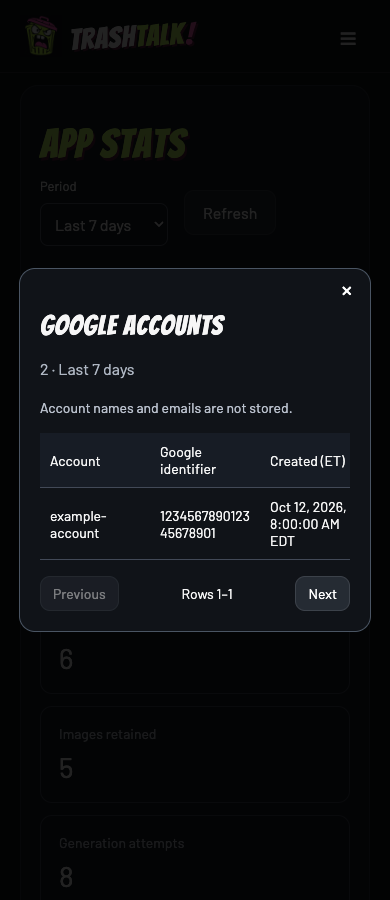
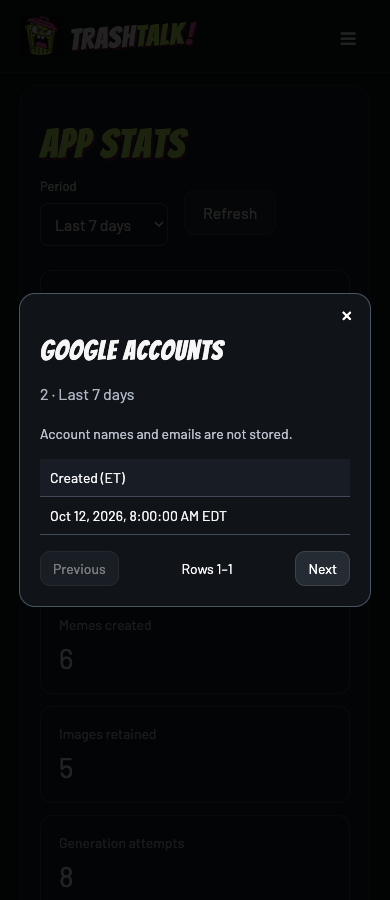
Sort stat details newest first and remove opaque identifier columns

diff --git a/worker/src/stats.ts b/worker/src/stats.ts
@@ -88,7 +88,7 @@ export async function statDetails(
     note = "";
   if (metric === "views") {
     query = `SELECT i.day AS "Date (UTC)",CASE WHEN i.ip='' THEN 'Not recorded' ELSE i.ip END AS "IP address",g.city AS "City",g.state AS "State / region",g.country AS "Country",i.views AS "Page views",i.first_seen AS "First visit (ET)",i.last_seen AS "Last visit (ET)" FROM traffic_ip_daily i LEFT JOIN traffic_ip_locations g ON g.ip=i.ip WHERE i.day>=?
-      UNION ALL SELECT d.day AS "Date (UTC)",'Not recorded' AS "IP address",NULL AS "City",NULL AS "State / region",NULL AS "Country",d.views-COALESCE((SELECT SUM(i.views) FROM traffic_ip_daily i WHERE i.day=d.day),0) AS "Page views",NULL AS "First visit (ET)",NULL AS "Last visit (ET)" FROM traffic_daily d WHERE d.day>=? AND d.views>COALESCE((SELECT SUM(i.views) FROM traffic_ip_daily i WHERE i.day=d.day),0) ORDER BY "Date (UTC)" DESC,"IP address"`;
+      UNION ALL SELECT d.day AS "Date (UTC)",'Not recorded' AS "IP address",NULL AS "City",NULL AS "State / region",NULL AS "Country",d.views-COALESCE((SELECT SUM(i.views) FROM traffic_ip_daily i WHERE i.day=d.day),0) AS "Page views",NULL AS "First visit (ET)",NULL AS "Last visit (ET)" FROM traffic_daily d WHERE d.day>=? AND d.views>COALESCE((SELECT SUM(i.views) FROM traffic_ip_daily i WHERE i.day=d.day),0) ORDER BY "Date (UTC)" DESC,"Last visit (ET)" DESC,"IP address"`;
     values = [firstDay, firstDay];
     columns = [
       "Date (UTC)",
@@ -103,10 +103,9 @@ export async function statDetails(
     note =
       "Page views are grouped by day and IP address. Daily IP records are retained for 90 days; the first location for each IP is cached. Geolocation is approximate; country uses its two-letter code. Older views or visits before IP tracking show “Not recorded.” Home-IP and signed-in operator traffic are excluded. Traffic timestamps begin with this update; earlier times were not recorded.";
   } else if (metric === "visitors") {
-    query = `SELECT v.visitor AS "Browser identifier",COALESCE(GROUP_CONCAT(DISTINCT NULLIF(i.ip,'')),'Not recorded') AS "IP addresses",GROUP_CONCAT(DISTINCT CASE WHEN i.ip IS NOT NULL AND i.ip!='' THEN i.ip||': '||COALESCE(g.city,'Unknown city')||', '||COALESCE(g.state,'Unknown region')||', '||COALESCE(g.country,'Unknown country') END) AS "Locations",MIN(v.first_seen) AS "First seen (ET)",MAX(v.last_seen) AS "Last seen (ET)",COUNT(DISTINCT v.day) AS "Days visited" FROM traffic_visitors v LEFT JOIN traffic_visitor_ips i ON i.day=v.day AND i.visitor=v.visitor LEFT JOIN traffic_ip_locations g ON g.ip=i.ip WHERE v.day>=? GROUP BY v.visitor ORDER BY MAX(v.day) DESC,v.visitor`;
+    query = `SELECT COALESCE(GROUP_CONCAT(DISTINCT NULLIF(i.ip,'')),'Not recorded') AS "IP addresses",GROUP_CONCAT(DISTINCT CASE WHEN i.ip IS NOT NULL AND i.ip!='' THEN i.ip||': '||COALESCE(g.city,'Unknown city')||', '||COALESCE(g.state,'Unknown region')||', '||COALESCE(g.country,'Unknown country') END) AS "Locations",MIN(v.first_seen) AS "First seen (ET)",MAX(v.last_seen) AS "Last seen (ET)",COUNT(DISTINCT v.day) AS "Days visited" FROM traffic_visitors v LEFT JOIN traffic_visitor_ips i ON i.day=v.day AND i.visitor=v.visitor LEFT JOIN traffic_ip_locations g ON g.ip=i.ip WHERE v.day>=? GROUP BY v.visitor ORDER BY MAX(v.day) DESC,MAX(v.last_seen) DESC,v.visitor`;
     values = [firstDay];
     columns = [
-      "Browser identifier",
       "IP addresses",
       "Locations",
       "First seen (ET)",
@@ -114,46 +113,32 @@ export async function statDetails(
       "Days visited",
     ];
     note =
-      "Browser identifiers and their recorded IP addresses cover at most 90 days. A browser can use several IPs, and an IP can be shared by several people. Home-IP and signed-in operator traffic are excluded. Traffic timestamps begin with this update; earlier times were not recorded.";
+      "Browser records and their recorded IP addresses cover at most 90 days. A browser can use several IPs, and an IP can be shared by several people. Home-IP and signed-in operator traffic are excluded. Traffic timestamps begin with this update; earlier times were not recorded.";
   } else if (metric === "accounts") {
-    query = `SELECT id AS "Account",google_sub AS "Google identifier",datetime(created_at,'unixepoch') AS "Created (UTC)" FROM principals WHERE google_sub IS NOT NULL AND created_at>=? ORDER BY created_at DESC,id`;
+    query = `SELECT datetime(created_at,'unixepoch') AS "Created (UTC)" FROM principals WHERE google_sub IS NOT NULL AND created_at>=? ORDER BY created_at DESC,id`;
     values = [since];
-    columns = ["Account", "Google identifier", "Created (UTC)"];
+    columns = ["Created (UTC)"];
     note =
       "The app stores Google identifiers, not names or email addresses. Account creation may precede Google sign-in.";
   } else if (Object.hasOwn(imageFilters, metric)) {
-    query = `SELECT id AS "Image",owner AS "Account",status AS "Status",datetime(created_at,'unixepoch') AS "Created (UTC)",CASE WHEN deleted_at IS NULL THEN 'No' ELSE 'Yes' END AS "Deleted",error AS "Error" FROM jobs WHERE created_at>=? AND (${imageFilters[metric]}) ORDER BY created_at DESC,id`;
+    query = `SELECT json_extract(caption,'$.text') AS "Caption",status AS "Status",datetime(created_at,'unixepoch') AS "Created (UTC)",CASE WHEN deleted_at IS NULL THEN 'No' ELSE 'Yes' END AS "Deleted",error AS "Error" FROM jobs WHERE created_at>=? AND (${imageFilters[metric]}) ORDER BY created_at DESC,id`;
     values = [since];
-    columns = [
-      "Image",
-      "Account",
-      "Status",
-      "Created (UTC)",
-      "Deleted",
-      "Error",
-    ];
+    columns = ["Caption", "Status", "Created (UTC)", "Deleted", "Error"];
   } else if (["packs", "credits", "amount", "review"].includes(metric)) {
-    query = `SELECT session_id AS "Checkout",owner AS "Account",status AS "Status",printf('$%.2f',amount/100.0) AS "Amount",credits AS "Credits",datetime(created_at,'unixepoch') AS "Created (UTC)" FROM purchases WHERE status=? AND created_at>=? ORDER BY created_at DESC,session_id`;
+    query = `SELECT status AS "Status",printf('$%.2f',amount/100.0) AS "Amount",credits AS "Credits",datetime(created_at,'unixepoch') AS "Created (UTC)" FROM purchases WHERE status=? AND created_at>=? ORDER BY created_at DESC,session_id`;
     values = [metric === "review" ? "review" : "paid", since];
-    columns = [
-      "Checkout",
-      "Account",
-      "Status",
-      "Amount",
-      "Credits",
-      "Created (UTC)",
-    ];
+    columns = ["Status", "Amount", "Credits", "Created (UTC)"];
     note =
       "Each row is a purchase. Credits and amount boxes total the corresponding columns. Review purchases are excluded from paid totals; amounts are not net revenue.";
   } else if (["trial", "paid"].includes(metric)) {
-    query = `SELECT l.job_id AS "Image",l.owner AS "Account",l.pool AS "Credit pool",datetime(l.created_at,'unixepoch') AS "Used (UTC)" FROM ledger l WHERE l.kind='captured' AND l.pool=? AND l.created_at>=? ORDER BY l.created_at DESC,l.id DESC`;
+    query = `SELECT json_extract(j.caption,'$.text') AS "Caption",l.pool AS "Credit pool",datetime(l.created_at,'unixepoch') AS "Used (UTC)" FROM ledger l LEFT JOIN jobs j ON j.id=l.job_id WHERE l.kind='captured' AND l.pool=? AND l.created_at>=? ORDER BY l.created_at DESC,l.id DESC`;
     values = [metric, since];
-    columns = ["Image", "Account", "Credit pool", "Used (UTC)"];
+    columns = ["Caption", "Credit pool", "Used (UTC)"];
     note = "Each row is one credit captured for a successful image.";
   } else if (metric === "shares") {
-    query = `SELECT s.job_id AS "Image",j.owner AS "Account",datetime(s.created_at,'unixepoch') AS "Created (UTC)",CASE WHEN j.deleted_at IS NULL THEN 'No' ELSE 'Yes' END AS "Image deleted" FROM shares s JOIN jobs j ON j.id=s.job_id WHERE s.published=1 AND s.created_at>=? ORDER BY s.created_at DESC,s.token`;
+    query = `SELECT json_extract(j.caption,'$.text') AS "Caption",datetime(s.created_at,'unixepoch') AS "Created (UTC)",CASE WHEN j.deleted_at IS NULL THEN 'No' ELSE 'Yes' END AS "Image deleted" FROM shares s JOIN jobs j ON j.id=s.job_id WHERE s.published=1 AND s.created_at>=? ORDER BY s.created_at DESC,s.token`;
     values = [since];
-    columns = ["Image", "Account", "Created (UTC)", "Image deleted"];
+    columns = ["Caption", "Created (UTC)", "Image deleted"];
     note =
       "Published share records use their creation date and include subsequently deleted images.";
   } else return null;
@@ -161,6 +146,19 @@ export async function statDetails(
     await sql(env, query + " LIMIT 51 OFFSET ?", ...values, offset).all()
   ).results;
   const more = rows.length > 50;
+  const timeColumns = [
+    "Last visit (ET)",
+    "Last seen (ET)",
+    "Created (UTC)",
+    "Used (UTC)",
+    "First visit (ET)",
+    "First seen (ET)",
+    "Date (UTC)",
+  ];
+  columns = [
+    ...timeColumns.filter((col) => columns.includes(col)),
+    ...columns.filter((col) => !timeColumns.includes(col)),
+  ];
   return {
     columns: columns.map((col) =>
       col === "Date (UTC)" ? "Day (UTC)" : col.replace("(UTC)", "(ET)"),

diff --git a/tests/stats.test.ts b/tests/stats.test.ts
@@ -120,8 +120,8 @@ it("details match summary counts and paginate without duplicate accounts", async
   const { env, db } = testEnv();
   for (let i = 0; i < 52; i++)
     db.prepare(
-      "INSERT INTO principals(id,google_sub,created_at) VALUES(?,?,unixepoch())",
-    ).run("u" + i, "g" + i);
+      "INSERT INTO principals(id,google_sub,created_at) VALUES(?,?,unixepoch()-?)",
+    ).run("u" + i, "g" + i, i);
   db.exec(`INSERT INTO jobs(id,owner,idempotency,input_hash,input,status,created_at,updated_at,deleted_at) VALUES
  ('complete','u0','a','h','{}','complete',unixepoch(),unixepoch(),NULL),
  ('deleted','u0','b','h','{}','complete',unixepoch(),unixepoch(),unixepoch()),
@@ -156,7 +156,9 @@ it("details match summary counts and paginate without duplicate accounts", async
   expect(second?.rows).toHaveLength(2);
   expect(second?.nextOffset).toBeNull();
   expect(
-    new Set([...first!.rows, ...second!.rows].map((r: any) => r.Account)).size,
+    new Set(
+      [...first!.rows, ...second!.rows].map((r: any) => r["Created (ET)"]),
+    ).size,
   ).toBe(52);
   expect((await statDetails(env, "credits", 30, 0))?.rows[0].Credits).toBe(
     s.purchases.credits,
@@ -326,4 +328,60 @@ it("formats record timestamps in Eastern Time across daylight saving changes", a
   expect(visitors?.rows[0]["First seen (ET)"]).toBe(
     formatEastern(1782921906 * 1000),
   );
+});
+
+it("sorts traffic by latest timestamp within a day and omits internal identifiers from all details", async () => {
+  const { env, db } = testEnv();
+  db.exec(`INSERT INTO traffic_daily VALUES('2026-07-01',2);
+ INSERT INTO traffic_ip_daily(day,ip,views,first_seen,last_seen) VALUES('2026-07-01','192.0.2.1',1,1782921906,1782921906),('2026-07-01','192.0.2.2',1,1782921906,1782925506);
+ INSERT INTO traffic_visitors(day,visitor,first_seen,last_seen) VALUES('2026-07-01','aaaa',1782921906,1782921906),('2026-07-01','zzzz',1782921906,1782925506);
+ INSERT INTO traffic_visitor_ips VALUES('2026-07-01','aaaa','192.0.2.1'),('2026-07-01','zzzz','192.0.2.2');`);
+  expect((await statDetails(env, "views", 0, 0))?.rows[0]["IP address"]).toBe(
+    "192.0.2.2",
+  );
+  expect(
+    (await statDetails(env, "visitors", 0, 0))?.rows[0]["IP addresses"],
+  ).toBe("192.0.2.2");
+  for (const metric of [
+    "views",
+    "visitors",
+    "accounts",
+    "completed",
+    "retained",
+    "attempts",
+    "failed",
+    "active",
+    "packs",
+    "credits",
+    "amount",
+    "review",
+    "trial",
+    "paid",
+    "shares",
+  ]) {
+    const details = await statDetails(env, metric, 0, 0);
+    expect(details?.columns[0], metric).toMatch(
+      /^(Last visit|Last seen|Created|Used) \(ET\)$/,
+    );
+    const firstNonDate = details!.columns.findIndex(
+      (col) => !col.endsWith("(ET)") && col !== "Day (UTC)",
+    );
+    if (firstNonDate >= 0)
+      expect(
+        details!.columns
+          .slice(firstNonDate)
+          .every((col) => !col.endsWith("(ET)") && col !== "Day (UTC)"),
+      ).toBe(true);
+    for (const forbidden of [
+      "Account",
+      "Google identifier",
+      "Browser identifier",
+      "Image",
+      "Checkout",
+    ]) {
+      expect(details?.columns).not.toContain(forbidden);
+      for (const row of details!.rows)
+        expect(row).not.toHaveProperty(forbidden);
+    }
+  }
 });

diff --git a/scripts/check-stats.ts b/scripts/check-stats.ts
@@ -52,12 +52,12 @@ for (const width of [390, 1440]) {
     const offset = Number(u.searchParams.get("offset") || 0);
     return r.fulfill({
       json: {
-        columns: ["Account", "Google identifier", "Created (ET)"],
+        columns: ["Created (ET)"],
         rows: [
           {
-            Account: offset ? "next-account" : "example-account",
-            "Google identifier": "123456789012345678901",
-            "Created (ET)": "Oct 12, 2026, 8:00:00 AM EDT",
+            "Created (ET)": offset
+              ? "Oct 11, 2026, 8:00:00 AM EDT"
+              : "Oct 12, 2026, 8:00:00 AM EDT",
           },
         ],
         note: "Account names and emails are not stored.",
@@ -81,14 +81,20 @@ for (const width of [390, 1440]) {
     else await cards.nth(i).click();
     const dialog = page.getByRole("dialog");
     await dialog.waitFor();
-    await dialog.getByText("example-account", { exact: true }).waitFor();
+    await dialog
+      .getByText("Oct 12, 2026, 8:00:00 AM EDT", { exact: true })
+      .waitFor();
     if (i === 2) {
       await dialog.getByRole("button", { name: "Next", exact: true }).click();
-      await dialog.getByText("next-account", { exact: true }).waitFor();
+      await dialog
+        .getByText("Oct 11, 2026, 8:00:00 AM EDT", { exact: true })
+        .waitFor();
       await dialog
         .getByRole("button", { name: "Previous", exact: true })
         .click();
-      await dialog.getByText("example-account", { exact: true }).waitFor();
+      await dialog
+        .getByText("Oct 12, 2026, 8:00:00 AM EDT", { exact: true })
+        .waitFor();
       await page.screenshot({ path: `reports/stats-modal-${width}.png` });
       await page.keyboard.press("Escape");
     } else

diff --git a/README.md b/README.md
@@ -88,7 +88,7 @@ Traffic tracking began with this release. Public homepage and published meme HTM
 
 Operator traffic is excluded before tracking: requests matching the comma-separated `STATS_EXCLUDED_IPS` setting, or a valid session for `ADMIN_GOOGLE_SUB`, do not increment views or browsers. IP addresses are compared during requests before recording; excluded visits are not saved. The initial four home/testing views were archived outside reported totals in migration 0010 after the operator confirmed their source. This exclusion affects web traffic; account, image, credit, and purchase records retain their actual totals. Update the setting if the home IP changes (signed-in operator visits remain excluded).
 
-Every stats card opens a keyboard-accessible detail modal for the selected period. Private `/api/admin/stats/:metric` routes enforce the same operator Google-account check and return at most 50 records per page. Details list Google-account identifiers, image jobs/status/deletion/errors, purchase records, captured-credit ledger entries, published-share records, daily page totals, and distinct anonymous browser hashes. The app does not have stored names/emails or individual visit logs. Detail queries use the same filters as their summary totals. Mobile tap, all 15 cards, pagination, Escape/Close, and focus restoration are exercised by `scripts/check-stats.ts`; layout tests mock API data, while SQLite tests verify real queries and authorization.
+Every stats card opens a keyboard-accessible detail modal for the selected period. Private `/api/admin/stats/:metric` routes enforce the same operator Google-account check and return at most 50 records per page. Details list account creation times, meme captions/status/deletion/errors, purchase records, captured-credit entries, published-share records, daily page totals, and anonymous browser activity. Internal identifiers are omitted. The app does not have stored names/emails or individual visit logs. Detail queries use the same filters as their summary totals. Mobile tap, all 15 cards, pagination, Escape/Close, and focus restoration are exercised by `scripts/check-stats.ts`; layout tests mock API data, while SQLite tests verify real queries and authorization.
 
 IP collection began with migration 0012. Page-view details group by UTC day and IP; browser details list recorded IPs. Older totals remain available with “Not recorded” for unavailable/expired IP data. The five-minute scheduled task deletes IP and browser records older than 90 days, including when no new visits occur. Aggregate counts remain.
 
@@ -97,3 +97,7 @@ IP geolocation: the first counted visit for an IP reads Cloudflare's `request.cf
 Successful-generation upload cleanup: `finalize` validates the stored meme, deletes each pinned user upload in R2, confirms absence, and deletes its owner-scoped upload record before atomically publishing completion/capturing the credit. Cleanup is idempotent and also runs on stored-artwork recovery. Failed deletions leave the job unfinished for recovery without repeating paid generation. Scheduled reconciliation removes legacy completed-job uploads. The browser clears the consumed photo selection after completion, so another meme needs a new upload. This controls app storage; provider retention remains governed by provider policies.
 
 Stats detail timestamps display date and time in America/New_York, including seconds and the correct EST/EDT label. Traffic daily/IP and daily/browser records now store first/last visit timestamps; historical rows with no timestamp show “Time not recorded.” UTC calendar-day grouping is labeled separately from the Eastern visit times. Exact timestamps for account creation, image jobs, purchases, captured credits, and shares are converted without changing their stored UTC values.
+
+Detail rows sort newest first before pagination. Traffic views order by day and last-visit timestamp; browsers order by latest visited day and last-seen time. Other details order by their creation or usage timestamps, with stable internal tie-breakers. Account/Google identifiers, browser hashes, image IDs, owner IDs, and Checkout IDs are excluded from detail responses and columns. Meme captions identify image-related rows instead. IP addresses remain visible.
+
+All date/time columns appear on the left of detail tables, with last visit/last seen first for traffic records, followed by first visit/first seen and the aggregate day.
